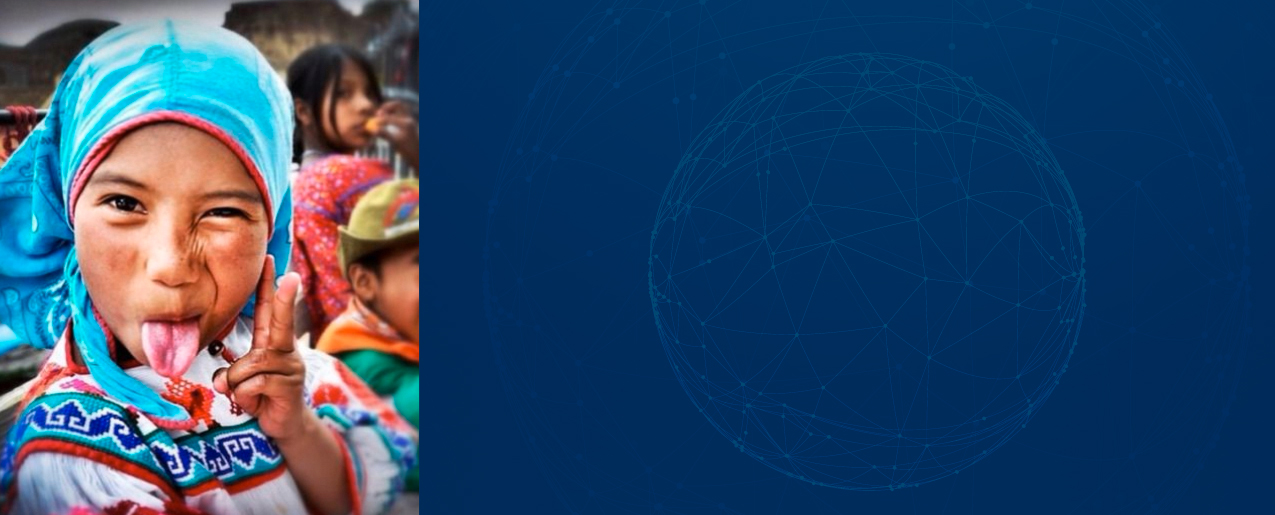
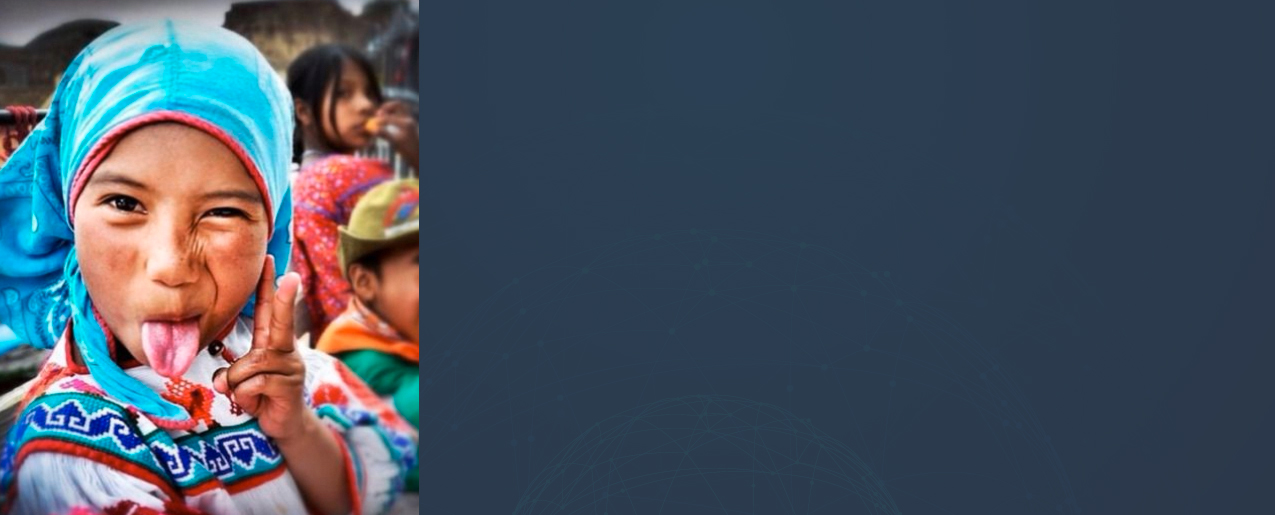
additions

diff --git a/one-page.html b/one-page.html
@@ -356,15 +356,6 @@
 
 					<div class="common-height clearfix">
 
-				<div style="background-image: url('one-page/images/page/kid1.jpg'); height:515px; text-align:center;" class="page-section notoppadding">
-					<div style="display:block; float:left; margin:110px 0px 90px 477px; position:absolute;">
-						<h1 style="font-weight:300; color:#333;">"Financial inclusion for all is indeed within our reach..."</h1>
-					<h3 style="font-weight:300;">Financial Inclusion at the Bottom of the Pyramid</h3>
-					<h4 style="font-weight:300;">Karl Mehta and Carol Realini</h4>
-				</div>
-				</div>
-
-
 					</div>
 
 
@@ -418,9 +409,18 @@
 				<!-- NEW SECTION ////////////////// -->
 
 
+				<div style="background-image: url('one-page/images/page/kid1.jpg'); height:515px; text-align:center; margin-top:-120px;" class="page-section notoppadding">
+					<div style="display:block; float:left; margin:150px 0px 90px 477px; position:absolute;">
+						<h1 style="font-weight:300; color:#1ABC9C; font-size:35px;">"Financial inclusion for all is indeed within our reach..."</h1>
+					<h3 style="font-weight:300; color:white;">Financial Inclusion at the Bottom of the Pyramid</h3>
+					<h4 style="font-weight:300; color:white;">Karl Mehta and Carol Realini</h4>
+					</div>
+				</div>
+
+
 				<div id="section-pilot" style="background-color:white; text-align:center;" class="page-section notoppadding"> 
 
-					<h1 style="margin-top:30px; font-weight:300;">First Nation Communities Pilot</h1>
+					<h1 style="margin-top:50px; font-weight:300;">First Nation Communities Pilot</h1>
 					<p><img src="one-page/images/page/pilot1.jpg" alt="First Nations" /></p>
 					<h2 style="color:#222!important; font-weight:300; padding:0px 60px;">Konviv has the privilege to work with various First Nations on a pilot involving various communities, including the Apache, Seneca, and Lakota. Tribal leaders from these three communities have given Konviv their go ahead to launch the product in these communities. We are honored and humbled.</h2>
 					<h2 style="color:#222!important; font-size:24px; font-weight:300; padding:0px 60px;">The Konviv pilot will serve to create a financial platform that community members can use to engage in trade, manage their assets, and gain access to capital that has long been denied due to many individuals not having access to or wanting traditional credit.</h2>
